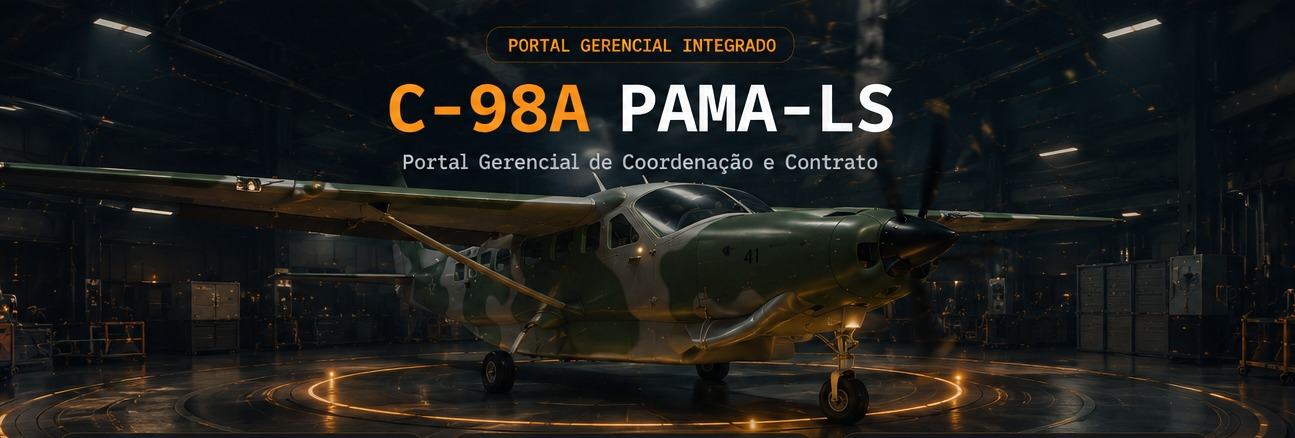
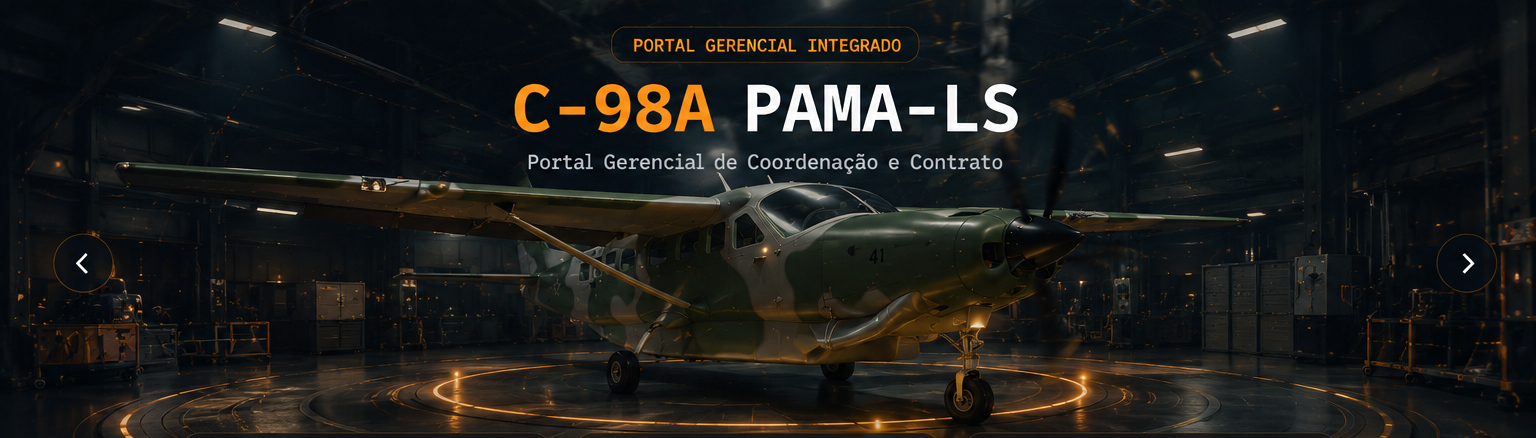
Corrige qualidade da imagem do hero da home
Recorte preservava largura menor que o container, forçando o CSS a
ampliar além da resolução real (borrava). Agora usa a largura inteira da
imagem original, zoom bem mais discreto e vinheta lateral pra esconder as
setas do mockup em vez de cortar a imagem.

diff --git a/home_hero.py b/home_hero.py
@@ -49,7 +49,7 @@ IMAGEM_HERO_PATH = RAIZ / "imagens" / "hero_hangar.jpg"
 
 # Posição aproximada do centro da hélice na foto (% da largura/altura da
 # CENA, não da imagem original) — calibrado visualmente pra hero_hangar.jpg.
-HELICE_X_PCT = 71.5
+HELICE_X_PCT = 68.4
 HELICE_Y_PCT = 56
 
 
@@ -101,27 +101,32 @@ def render_hero(altura=440):
         @keyframes fade-in {{ from {{ opacity: 0; }} to {{ opacity: 1; }} }}
 
         .foto {{
-            position: absolute; inset: -3%;
+            position: absolute; inset: 0;
             background-image: url('{fundo}');
             background-size: cover; background-position: center;
-            animation: kenburns 50s ease-in-out infinite alternate;
+            image-rendering: -webkit-optimize-contrast;
+            animation: kenburns 55s ease-in-out infinite alternate;
         }}
+        /* Zoom bem discreto — a foto tem 1536px de largura, quase igual à
+           largura máxima do container (1440px); um zoom exagerado ampliaria
+           além da resolução real da imagem e ficaria com aparência borrada. */
         @keyframes kenburns {{
             0%   {{ transform: scale(1.0) translate(0, 0); }}
-            100% {{ transform: scale(1.07) translate(-0.8%, -0.6%); }}
+            100% {{ transform: scale(1.025) translate(-0.5%, -0.4%); }}
         }}
 
         .vinheta {{
             position: absolute; inset: 0;
             background:
                 radial-gradient(ellipse 90% 70% at 50% 40%, transparent 55%, rgba(5,7,10,0.55) 100%),
-                linear-gradient(180deg, rgba(5,7,10,0.12) 0%, transparent 18%, transparent 78%, rgba(5,7,10,0.35) 100%);
+                linear-gradient(180deg, rgba(5,7,10,0.12) 0%, transparent 18%, transparent 78%, rgba(5,7,10,0.35) 100%),
+                linear-gradient(90deg, rgba(5,7,10,0.85) 0%, transparent 7%, transparent 93%, rgba(5,7,10,0.85) 100%);
             pointer-events: none;
         }}
 
         /* --- Anéis de luz sobrepostos ao anel já pintado na foto --- */
         .plataforma-wrap {{
-            position: absolute; left: 63%; bottom: 2%; transform: translateX(-50%);
+            position: absolute; left: 60%; bottom: 2%; transform: translateX(-50%);
             width: 46%; aspect-ratio: 640 / 130; pointer-events: none;
         }}
         .anel {{